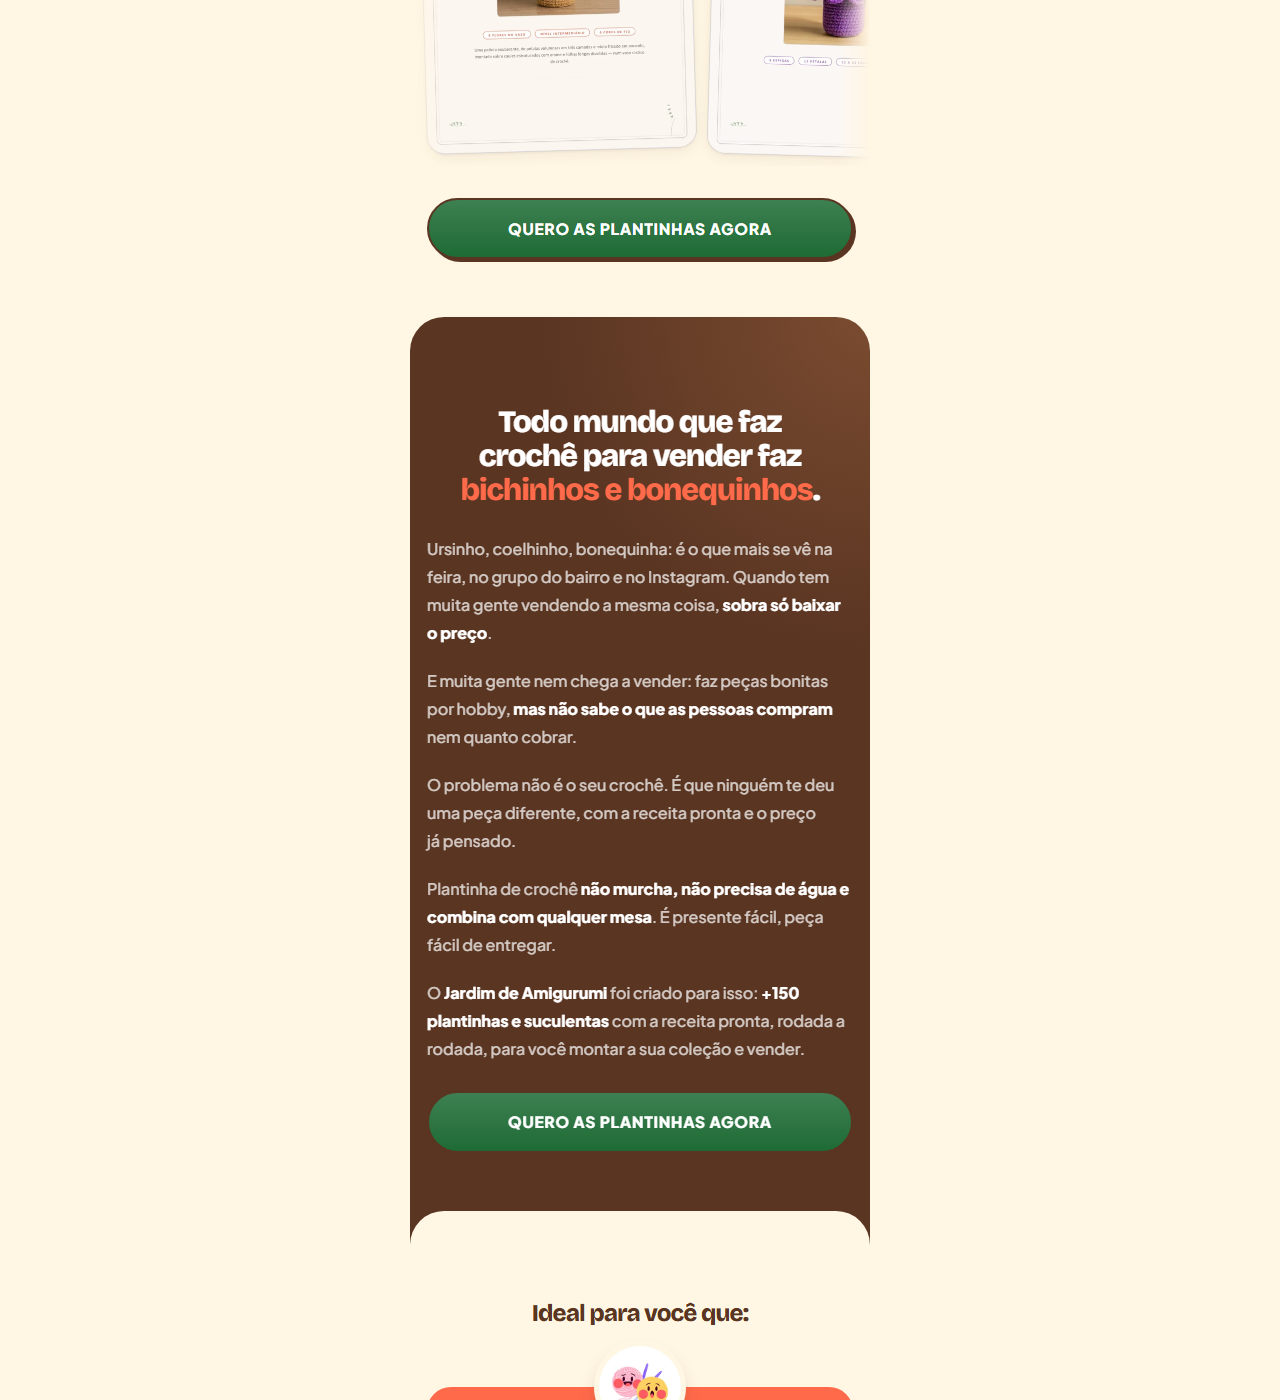
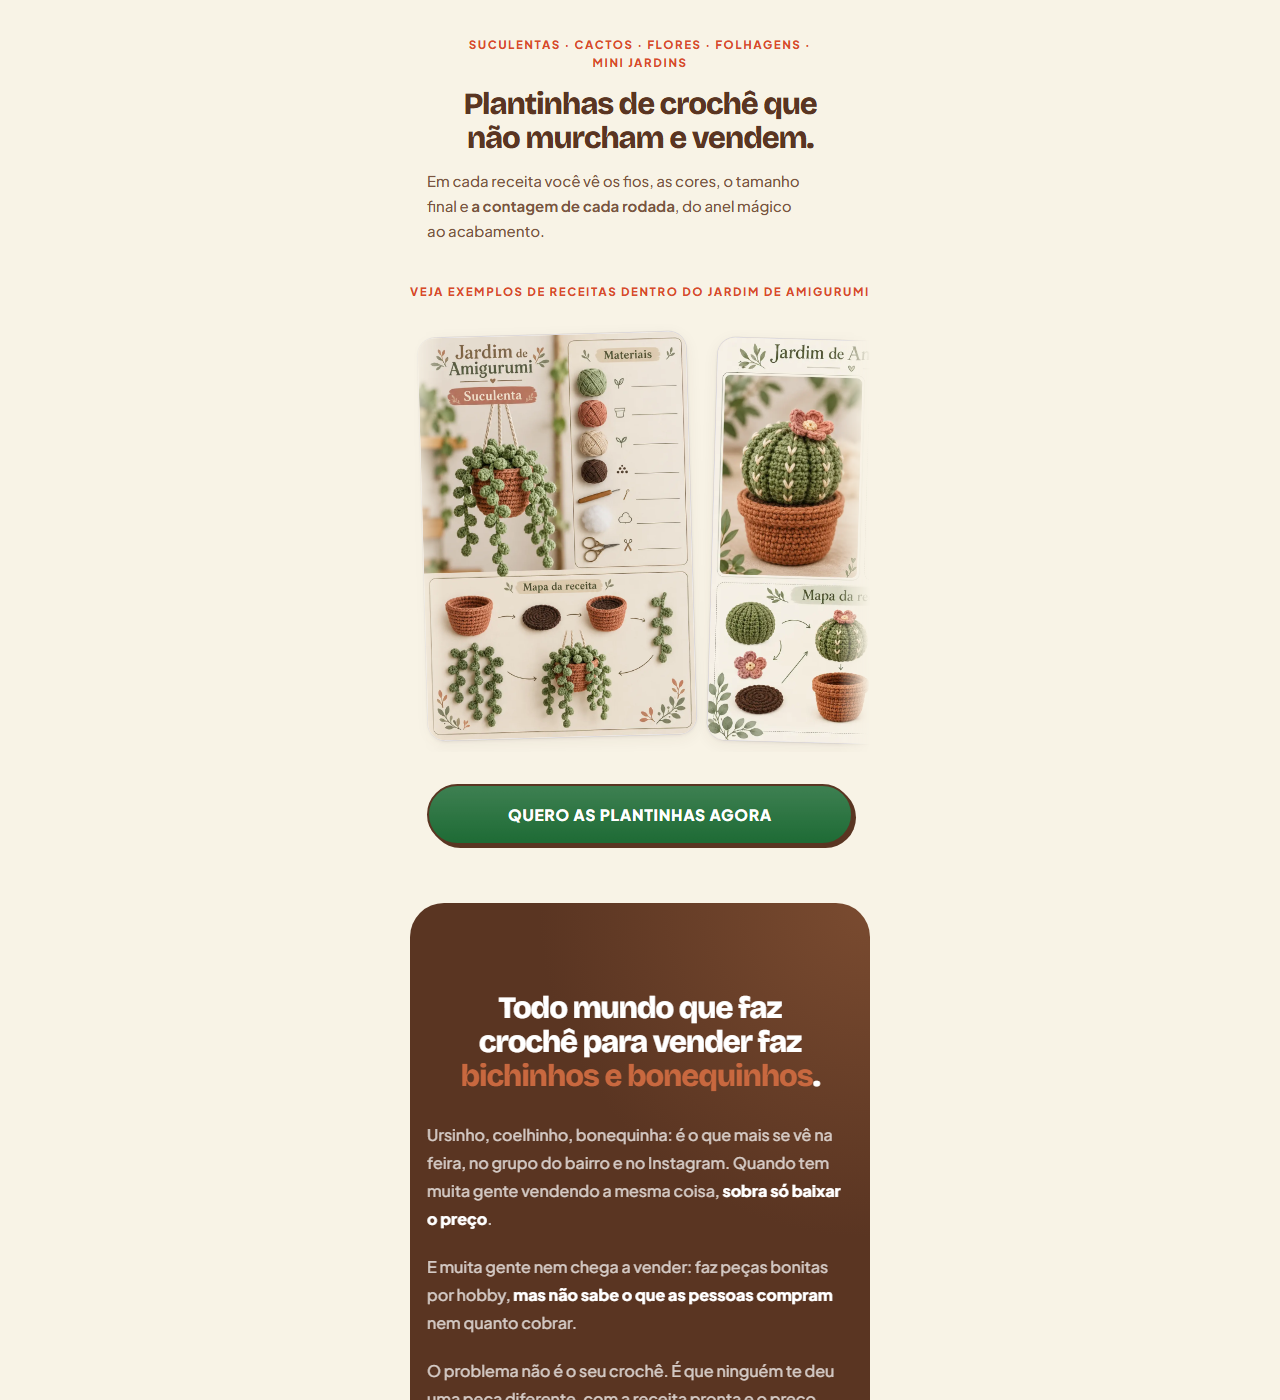
jardim: recolocar imagens

Changed region(s): [[0.3125, 0.0, 0.6875, 1.0]]

diff --git a/saidas/modelagem/2026-10-23-plantas-amigurumi/04-pagina.html b/saidas/modelagem/2026-10-23-plantas-amigurumi/04-pagina.html
@@ -6,8 +6,8 @@
 <meta name="theme-color" content="#C8683F">
 <meta http-equiv="x-dns-prefetch-control" content="on">
 <title>Jardim de Amigurumi — +200 plantinhas e suculentas de crochê para vender</title>
-<link rel="preload" as="image" href="https://zitfuuullg008-debug.github.io/harness-ofertas/imagens/jardim-de-amigurumi/hero-1.webp?v=c89a3fee" fetchpriority="high">
 <link rel="preconnect" href="https://zitfuuullg008-debug.github.io" crossorigin>
+<link rel="preload" as="image" href="https://zitfuuullg008-debug.github.io/harness-ofertas/imagens/jardim-de-amigurumi/hero-1.webp?v=c89a3fee" fetchpriority="high">
 <link rel="preconnect" href="https://fonts.googleapis.com">
 <link rel="preconnect" href="https://fonts.gstatic.com" crossorigin>
 <link rel="stylesheet" href="https://fonts.googleapis.com/css2?family=Plus+Jakarta+Sans:wght@500;600;700;800&family=Bricolage+Grotesque:opsz,wght@12..96,800&display=swap">
@@ -44,7 +44,7 @@
     <div class="hero-pill"><i class="emo">🪴</i><span>Peças que não murcham</span></div>
     <div class="hero-pill"><i class="emo">💰</i><span>Tabela de preços incluída</span></div>
   </div>
-  <img loading="eager" fetchpriority="high" class="hero-img" src="https://zitfuuullg008-debug.github.io/harness-ofertas/imagens/jardim-de-amigurumi/hero-1.webp?v=c89a3fee" alt="Plantinhas e suculentas de amigurumi em vasinhos, com o aplicativo de receitas no celular" decoding="async" width="832" height="670">
+  <img loading="eager" fetchpriority="high" class="hero-img" src="https://zitfuuullg008-debug.github.io/harness-ofertas/imagens/jardim-de-amigurumi/hero-1.webp?v=c89a3fee" alt="Mockup do Jardim de Amigurumi: celular com o aplicativo, capas das receitas e plantinhas de crochê com a placa do nome" decoding="async" width="600" height="600">
   <p class="hero-sub">O <strong>Jardim de Amigurumi</strong> traz <strong>+150 receitas de plantinhas e suculentas</strong> em amigurumi para você fazer e vender, cada uma com os fios, as cores e a contagem de cada rodada, e mais <strong>50 plantinhas de bônus</strong>, <strong>mesmo se você está começando agora</strong>.</p>
   <a href="#plano-completo" class="btn">QUERO AS PLANTINHAS AGORA</a>
   <ul class="trust"><li>🔒 Compra segura</li><li>⚡ Acesso imediato</li><li>🛡 30 dias de garantia</li></ul>
@@ -127,7 +127,7 @@
   <div class="bonus-card"><div class="bonus-img-area"><img loading="lazy" src="https://zitfuuullg008-debug.github.io/harness-ofertas/imagens/jardim-de-amigurumi/bonuses-3.webp?v=f6cd23ac" alt="Bônus 3: Kit de papelaria digital: planilha de pedidos e de produção + 12 etiquetas e cartões" decoding="async"></div><div class="bonus-body"><span class="bonus-num-tag">#3 · BÔNUS HOJE!</span><h3>Kit de papelaria digital: planilha de pedidos e de produção + 12 etiquetas e cartões</h3><div class="bonus-divider"></div><p>Você imprime, organiza os pedidos e entrega com cara de loja.</p></div></div>
   <div class="bonus-card"><div class="bonus-img-area"><img loading="lazy" src="https://zitfuuullg008-debug.github.io/harness-ofertas/imagens/jardim-de-amigurumi/bonuses-4.webp?v=f3553df8" alt="Bônus 4: 30 mensagens prontas para vender" decoding="async"></div><div class="bonus-body"><span class="bonus-num-tag">#4 · BÔNUS HOJE!</span><h3>30 mensagens prontas para vender</h3><div class="bonus-divider"></div><p>Você copia, cola e manda no WhatsApp e no Instagram.</p></div></div>
   <div class="bonus-card"><div class="bonus-img-area"><img loading="lazy" src="https://zitfuuullg008-debug.github.io/harness-ofertas/imagens/jardim-de-amigurumi/bonuses-5.webp?v=8d4f4486" alt="Bônus 5: 20 ideias de kit presente com plantinhas" decoding="async"></div><div class="bonus-body"><span class="bonus-num-tag">#5 · BÔNUS HOJE!</span><h3>20 ideias de kit presente com plantinhas</h3><div class="bonus-divider"></div><p>Você escolhe a ideia e vende por um valor maior.</p></div></div>
-  <div class="bonus-card"><div class="bonus-img-area"><img loading="lazy" src="https://zitfuuullg008-debug.github.io/harness-ofertas/imagens/jardim-de-amigurumi/bonuses-6.webp?v=502f332e" alt="Bônus 6: Lista de materiais das 150 plantinhas" decoding="async"></div><div class="bonus-body"><span class="bonus-num-tag">#6 · BÔNUS HOJE!</span><h3>Lista de materiais das 150 plantinhas</h3><div class="bonus-divider"></div><p>Você compra fio, enchimento e vasinho de uma vez, sem sobra nem falta.</p></div></div>
+  <div class="bonus-card"><div class="bonus-img-area"><img loading="lazy" src="https://zitfuuullg008-debug.github.io/harness-ofertas/imagens/jardim-de-amigurumi/bonuses-6.webp?v=603b6ad0" alt="Bônus 6: Lista de materiais das 150 plantinhas" decoding="async"></div><div class="bonus-body"><span class="bonus-num-tag">#6 · BÔNUS HOJE!</span><h3>Lista de materiais das 150 plantinhas</h3><div class="bonus-divider"></div><p>Você compra fio, enchimento e vasinho de uma vez, sem sobra nem falta.</p></div></div>
 </section>
 
 <!-- ============ 7 · PROVA SOCIAL ============ -->

diff --git a/saidas/modelagem/2026-10-23-plantas-amigurumi/conferencia-visual/conferencia-visual.md b/saidas/modelagem/2026-10-23-plantas-amigurumi/conferencia-visual/conferencia-visual.md
@@ -7,8 +7,7 @@
 - imagens visíveis: 50 · sem texto alternativo: 0
 - fotos: 12 (em conferencia-visual/)
 
-## 124 problema(s), 0 aviso(s)
-- PROBLEMA celular: imagem QUEBRADA [hero] hero-img → odelagem/2026-10-23-plantas-amigurumi/%7B%7BIMG:hero:1%7D%7D
+## 122 problema(s), 0 aviso(s)
 - PROBLEMA celular: imagem QUEBRADA [demo] img (não carregou) → s-ofertas/imagens/jardim-de-amigurumi/demo-3.webp?v=c22ab170
 - PROBLEMA celular: imagem QUEBRADA [demo] img (não carregou) → s-ofertas/imagens/jardim-de-amigurumi/demo-4.webp?v=82d3f7ac
 - PROBLEMA celular: imagem QUEBRADA [demo] img (não carregou) → s-ofertas/imagens/jardim-de-amigurumi/demo-5.webp?v=cc07cc09
@@ -48,29 +47,28 @@
 - PROBLEMA celular: [demo] img passa da tela (direita em 551, tela 390)
 - PROBLEMA celular: [demo] carousel-item passa da tela (direita em 829, tela 390)
 - PROBLEMA celular: [demo] img passa da tela (direita em 818, tela 390)
-- PROBLEMA celular: [demo] carousel-item passa da tela (direita em 1106, tela 390)
-- PROBLEMA celular: [demo] img passa da tela (direita em 1105, tela 390)
+- PROBLEMA celular: [demo] carousel-item passa da tela (direita em 1107, tela 390)
+- PROBLEMA celular: [demo] img passa da tela (direita em 1106, tela 390)
 - PROBLEMA celular: [demo] carousel-item passa da tela (direita em 1384, tela 390)
 - PROBLEMA celular: [demo] img passa da tela (direita em 1373, tela 390)
-- PROBLEMA celular: [demo] carousel-item passa da tela (direita em 1661, tela 390)
+- PROBLEMA celular: [demo] carousel-item passa da tela (direita em 1662, tela 390)
 - PROBLEMA celular: [demo] img passa da tela (direita em 1660, tela 390)
 - PROBLEMA celular: [demo] carousel-item passa da tela (direita em 1939, tela 390)
-- PROBLEMA celular: texto difícil de ler, span "🪴 Pagamento único · acesso imediato · 3" contraste 2.8:1
-- PROBLEMA celular: texto difícil de ler, [demo] demo-topo "Suculentas · Cactos · Flores · Folhagens" contraste 3.9:1
-- PROBLEMA celular: texto difícil de ler, [demo] demo-eyebrow "Veja exemplos de receitas dentro do Jard" contraste 3.9:1
-- PROBLEMA celular: texto difícil de ler, [ideal] h3 "Faz crochê por hobby e quer transformar " contraste 2.8:1
-- PROBLEMA celular: texto difícil de ler, [ideal] p "Você já faz peças bonitas, mas não sabe " contraste 2.8:1
-- PROBLEMA celular: texto difícil de ler, [ideal] h3 "Está começando agora e tem medo de errar" contraste 2.8:1
-- PROBLEMA celular: texto difícil de ler, [ideal] p "Cada receita traz os fios, as cores e a " contraste 2.8:1
-- PROBLEMA celular: texto difícil de ler, [ideal] h3 "Não tem tempo para inventar modelo" contraste 2.8:1
-- PROBLEMA celular: texto difícil de ler, [ideal] p "As +150 receitas já estão prontas, em 5 " contraste 2.8:1
-- PROBLEMA celular: texto difícil de ler, [ideal] h3 "Quer vender e não sabe quanto cobrar" contraste 2.8:1
-- PROBLEMA celular: texto difícil de ler, [ideal] p "A tabela de preços das 150 plantinhas mo" contraste 2.8:1
-- PROBLEMA celular: texto difícil de ler, [ideal] h3 "Quer um presente que não murcha" contraste 2.8:1
-- PROBLEMA celular: texto difícil de ler, [ideal] p "Plantinha de crochê não precisa de água " contraste 2.8:1
-- PROBLEMA celular: texto difícil de ler, [bonuses] bonus-num-tag "#1 · BÔNUS HOJE!" contraste 2.8:1
-- PROBLEMA celular: texto difícil de ler, [bonuses] bonus-num-tag "#2 · BÔNUS HOJE!" contraste 2.8:1
-- PROBLEMA computador: imagem QUEBRADA [hero] hero-img → odelagem/2026-10-23-plantas-amigurumi/%7B%7BIMG:hero:1%7D%7D
+- PROBLEMA celular: texto difícil de ler, span "🪴 Pagamento único · acesso imediato · 3" contraste 3.8:1
+- PROBLEMA celular: texto difícil de ler, [demo] demo-topo "Suculentas · Cactos · Flores · Folhagens" contraste 3.8:1
+- PROBLEMA celular: texto difícil de ler, [demo] demo-eyebrow "Veja exemplos de receitas dentro do Jard" contraste 3.8:1
+- PROBLEMA celular: texto difícil de ler, [ideal] h3 "Faz crochê por hobby e quer transformar " contraste 3.8:1
+- PROBLEMA celular: texto difícil de ler, [ideal] p "Você já faz peças bonitas, mas não sabe " contraste 3.8:1
+- PROBLEMA celular: texto difícil de ler, [ideal] h3 "Está começando agora e tem medo de errar" contraste 3.8:1
+- PROBLEMA celular: texto difícil de ler, [ideal] p "Cada receita traz os fios, as cores e a " contraste 3.8:1
+- PROBLEMA celular: texto difícil de ler, [ideal] h3 "Não tem tempo para inventar modelo" contraste 3.8:1
+- PROBLEMA celular: texto difícil de ler, [ideal] p "As +150 receitas já estão prontas, em 5 " contraste 3.8:1
+- PROBLEMA celular: texto difícil de ler, [ideal] h3 "Quer vender e não sabe quanto cobrar" contraste 3.8:1
+- PROBLEMA celular: texto difícil de ler, [ideal] p "A tabela de preços das 150 plantinhas mo" contraste 3.8:1
+- PROBLEMA celular: texto difícil de ler, [ideal] h3 "Quer um presente que não murcha" contraste 3.8:1
+- PROBLEMA celular: texto difícil de ler, [ideal] p "Plantinha de crochê não precisa de água " contraste 3.8:1
+- PROBLEMA celular: texto difícil de ler, [bonuses] bonus-num-tag "#1 · BÔNUS HOJE!" contraste 3.8:1
+- PROBLEMA celular: texto difícil de ler, [bonuses] bonus-num-tag "#2 · BÔNUS HOJE!" contraste 3.8:1
 - PROBLEMA computador: imagem QUEBRADA [demo] img (não carregou) → s-ofertas/imagens/jardim-de-amigurumi/demo-3.webp?v=c22ab170
 - PROBLEMA computador: imagem QUEBRADA [demo] img (não carregou) → s-ofertas/imagens/jardim-de-amigurumi/demo-4.webp?v=82d3f7ac
 - PROBLEMA computador: imagem QUEBRADA [demo] img (não carregou) → s-ofertas/imagens/jardim-de-amigurumi/demo-5.webp?v=cc07cc09
@@ -107,30 +105,30 @@
 - PROBLEMA computador: [demo] carousel-track passa da tela (direita em 5634, tela 1280)
 - PROBLEMA computador: [demo] carousel-item passa da tela (direita em 1567, tela 1280)
 - PROBLEMA computador: [demo] img passa da tela (direita em 1566, tela 1280)
-- PROBLEMA computador: [demo] carousel-item passa da tela (direita em 1857, tela 1280)
-- PROBLEMA computador: [demo] img passa da tela (direita em 1846, tela 1280)
+- PROBLEMA computador: [demo] carousel-item passa da tela (direita em 1858, tela 1280)
+- PROBLEMA computador: [demo] img passa da tela (direita em 1845, tela 1280)
 - PROBLEMA computador: [demo] carousel-item passa da tela (direita em 2147, tela 1280)
 - PROBLEMA computador: [demo] img passa da tela (direita em 2146, tela 1280)
-- PROBLEMA computador: [demo] carousel-item passa da tela (direita em 2437, tela 1280)
-- PROBLEMA computador: [demo] img passa da tela (direita em 2426, tela 1280)
+- PROBLEMA computador: [demo] carousel-item passa da tela (direita em 2438, tela 1280)
+- PROBLEMA computador: [demo] img passa da tela (direita em 2425, tela 1280)
 - PROBLEMA computador: [demo] carousel-item passa da tela (direita em 2727, tela 1280)
 - PROBLEMA computador: [demo] img passa da tela (direita em 2726, tela 1280)
-- PROBLEMA computador: [demo] carousel-item passa da tela (direita em 3017, tela 1280)
-- PROBLEMA computador: [demo] img passa da tela (direita em 3006, tela 1280)
-- PROBLEMA computador: texto difícil de ler, span "🪴 Pagamento único · acesso imediato · 3" contraste 2.8:1
-- PROBLEMA computador: texto difícil de ler, [demo] demo-topo "Suculentas · Cactos · Flores · Folhagens" contraste 3.9:1
-- PROBLEMA computador: texto difícil de ler, [demo] demo-eyebrow "Veja exemplos de receitas dentro do Jard" contraste 3.9:1
-- PROBLEMA computador: texto difícil de ler, [ideal] h3 "Faz crochê por hobby e quer transformar " contraste 2.8:1
-- PROBLEMA computador: texto difícil de ler, [ideal] p "Você já faz peças bonitas, mas não sabe " contraste 2.8:1
-- PROBLEMA computador: texto difícil de ler, [ideal] h3 "Está começando agora e tem medo de errar" contraste 2.8:1
-- PROBLEMA computador: texto difícil de ler, [ideal] p "Cada receita traz os fios, as cores e a " contraste 2.8:1
-- PROBLEMA computador: texto difícil de ler, [ideal] h3 "Não tem tempo para inventar modelo" contraste 2.8:1
-- PROBLEMA computador: texto difícil de ler, [ideal] p "As +150 receitas já estão prontas, em 5 " contraste 2.8:1
-- PROBLEMA computador: texto difícil de ler, [ideal] h3 "Quer vender e não sabe quanto cobrar" contraste 2.8:1
-- PROBLEMA computador: texto difícil de ler, [ideal] p "A tabela de preços das 150 plantinhas mo" contraste 2.8:1
-- PROBLEMA computador: texto difícil de ler, [ideal] h3 "Quer um presente que não murcha" contraste 2.8:1
-- PROBLEMA computador: texto difícil de ler, [ideal] p "Plantinha de crochê não precisa de água " contraste 2.8:1
-- PROBLEMA computador: texto difícil de ler, [bonuses] bonus-num-tag "#1 · BÔNUS HOJE!" contraste 2.8:1
-- PROBLEMA computador: texto difícil de ler, [bonuses] bonus-num-tag "#2 · BÔNUS HOJE!" contraste 2.8:1
+- PROBLEMA computador: [demo] carousel-item passa da tela (direita em 3018, tela 1280)
+- PROBLEMA computador: [demo] img passa da tela (direita em 3005, tela 1280)
+- PROBLEMA computador: texto difícil de ler, span "🪴 Pagamento único · acesso imediato · 3" contraste 3.8:1
+- PROBLEMA computador: texto difícil de ler, [demo] demo-topo "Suculentas · Cactos · Flores · Folhagens" contraste 3.8:1
+- PROBLEMA computador: texto difícil de ler, [demo] demo-eyebrow "Veja exemplos de receitas dentro do Jard" contraste 3.8:1
+- PROBLEMA computador: texto difícil de ler, [ideal] h3 "Faz crochê por hobby e quer transformar " contraste 3.8:1
+- PROBLEMA computador: texto difícil de ler, [ideal] p "Você já faz peças bonitas, mas não sabe " contraste 3.8:1
+- PROBLEMA computador: texto difícil de ler, [ideal] h3 "Está começando agora e tem medo de errar" contraste 3.8:1
+- PROBLEMA computador: texto difícil de ler, [ideal] p "Cada receita traz os fios, as cores e a " contraste 3.8:1
+- PROBLEMA computador: texto difícil de ler, [ideal] h3 "Não tem tempo para inventar modelo" contraste 3.8:1
+- PROBLEMA computador: texto difícil de ler, [ideal] p "As +150 receitas já estão prontas, em 5 " contraste 3.8:1
+- PROBLEMA computador: texto difícil de ler, [ideal] h3 "Quer vender e não sabe quanto cobrar" contraste 3.8:1
+- PROBLEMA computador: texto difícil de ler, [ideal] p "A tabela de preços das 150 plantinhas mo" contraste 3.8:1
+- PROBLEMA computador: texto difícil de ler, [ideal] h3 "Quer um presente que não murcha" contraste 3.8:1
+- PROBLEMA computador: texto difícil de ler, [ideal] p "Plantinha de crochê não precisa de água " contraste 3.8:1
+- PROBLEMA computador: texto difícil de ler, [bonuses] bonus-num-tag "#1 · BÔNUS HOJE!" contraste 3.8:1
+- PROBLEMA computador: texto difícil de ler, [bonuses] bonus-num-tag "#2 · BÔNUS HOJE!" contraste 3.8:1
 
 As fotos estão nesta pasta: ABRA e olhe uma por uma (nada cortado, nada faltando, texto legível, botão visível) antes de mostrar para ela.
